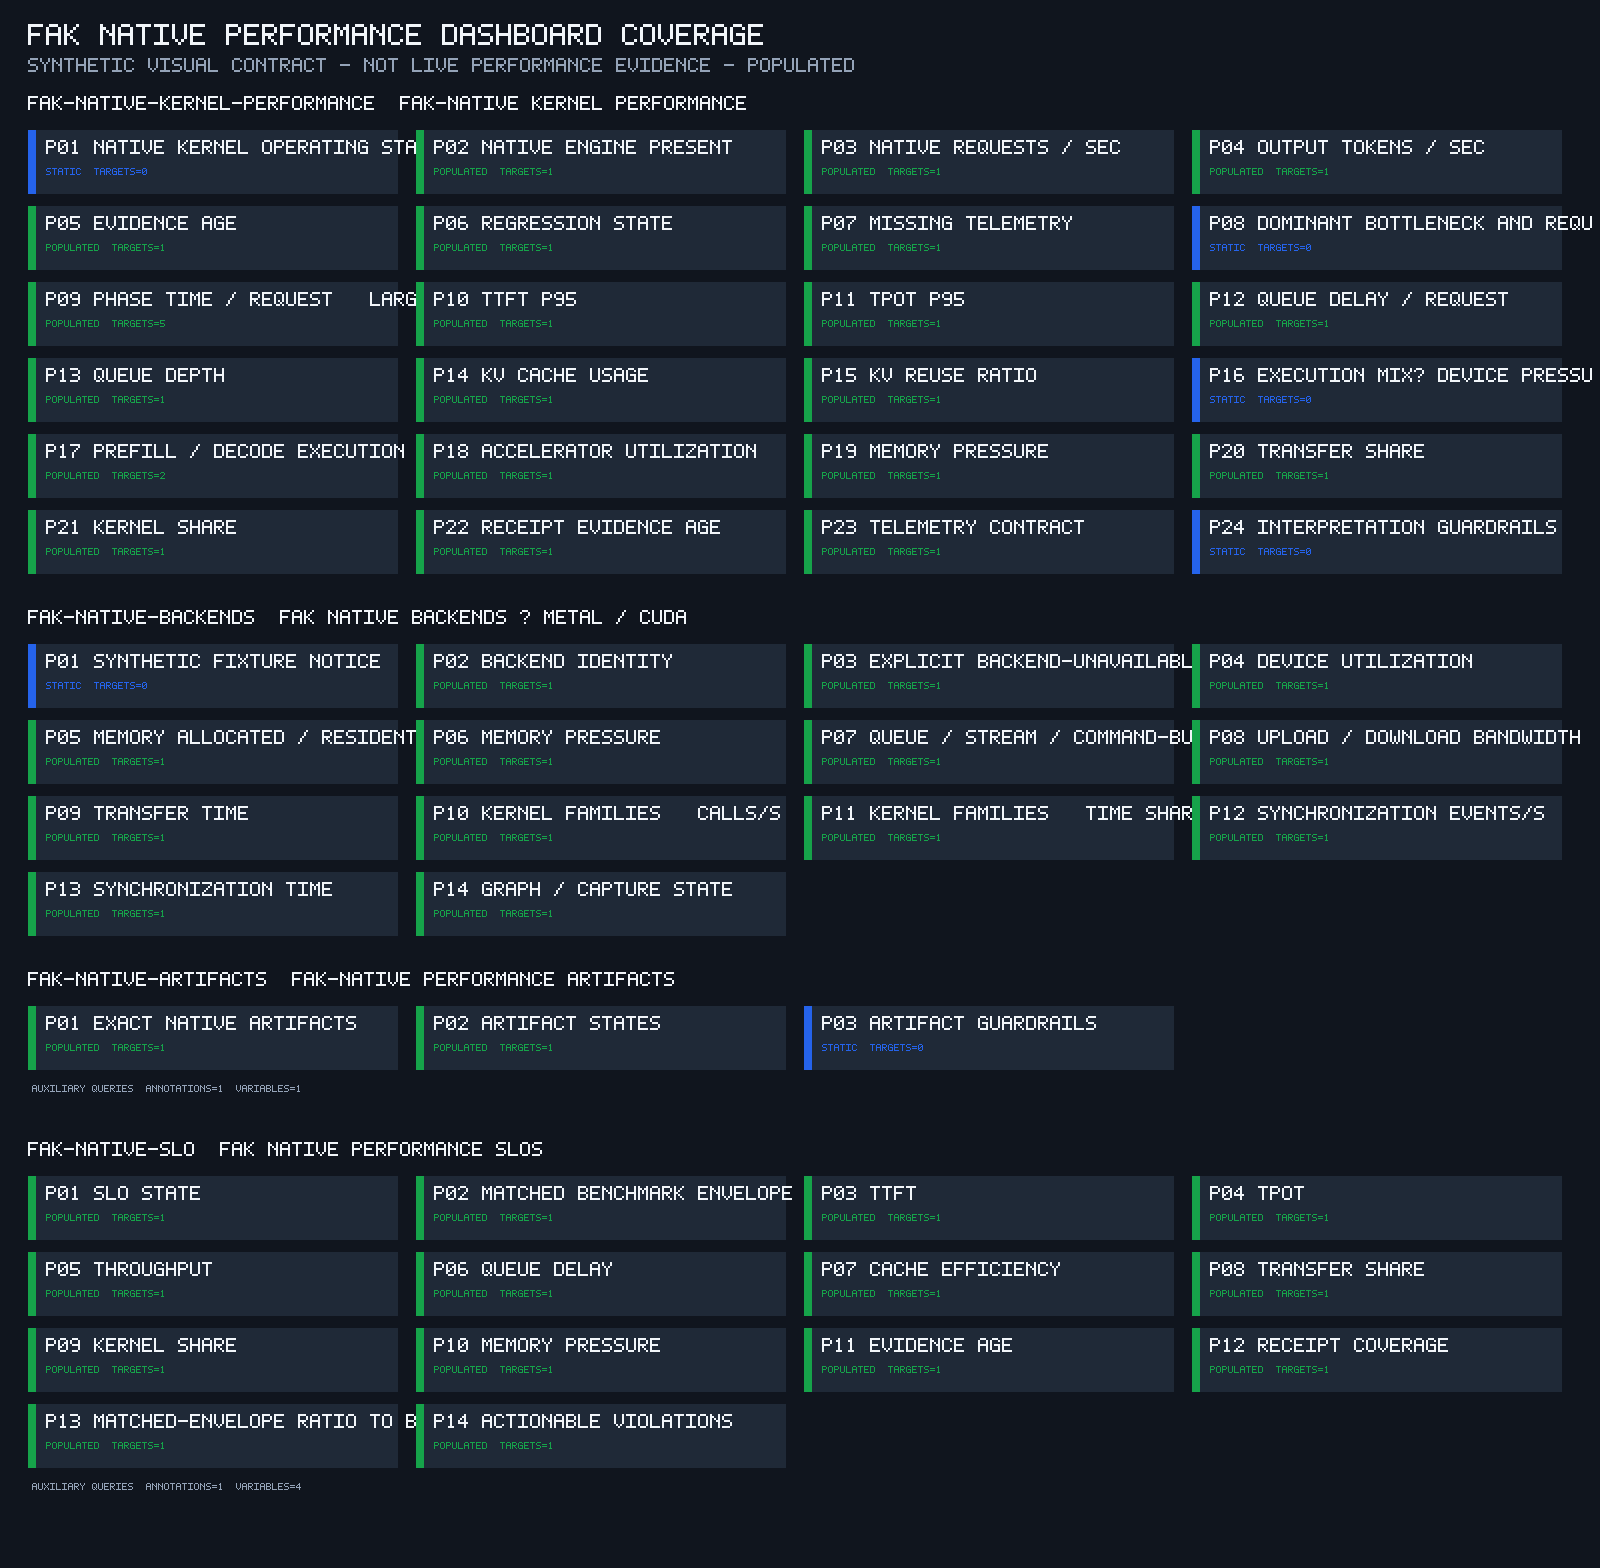
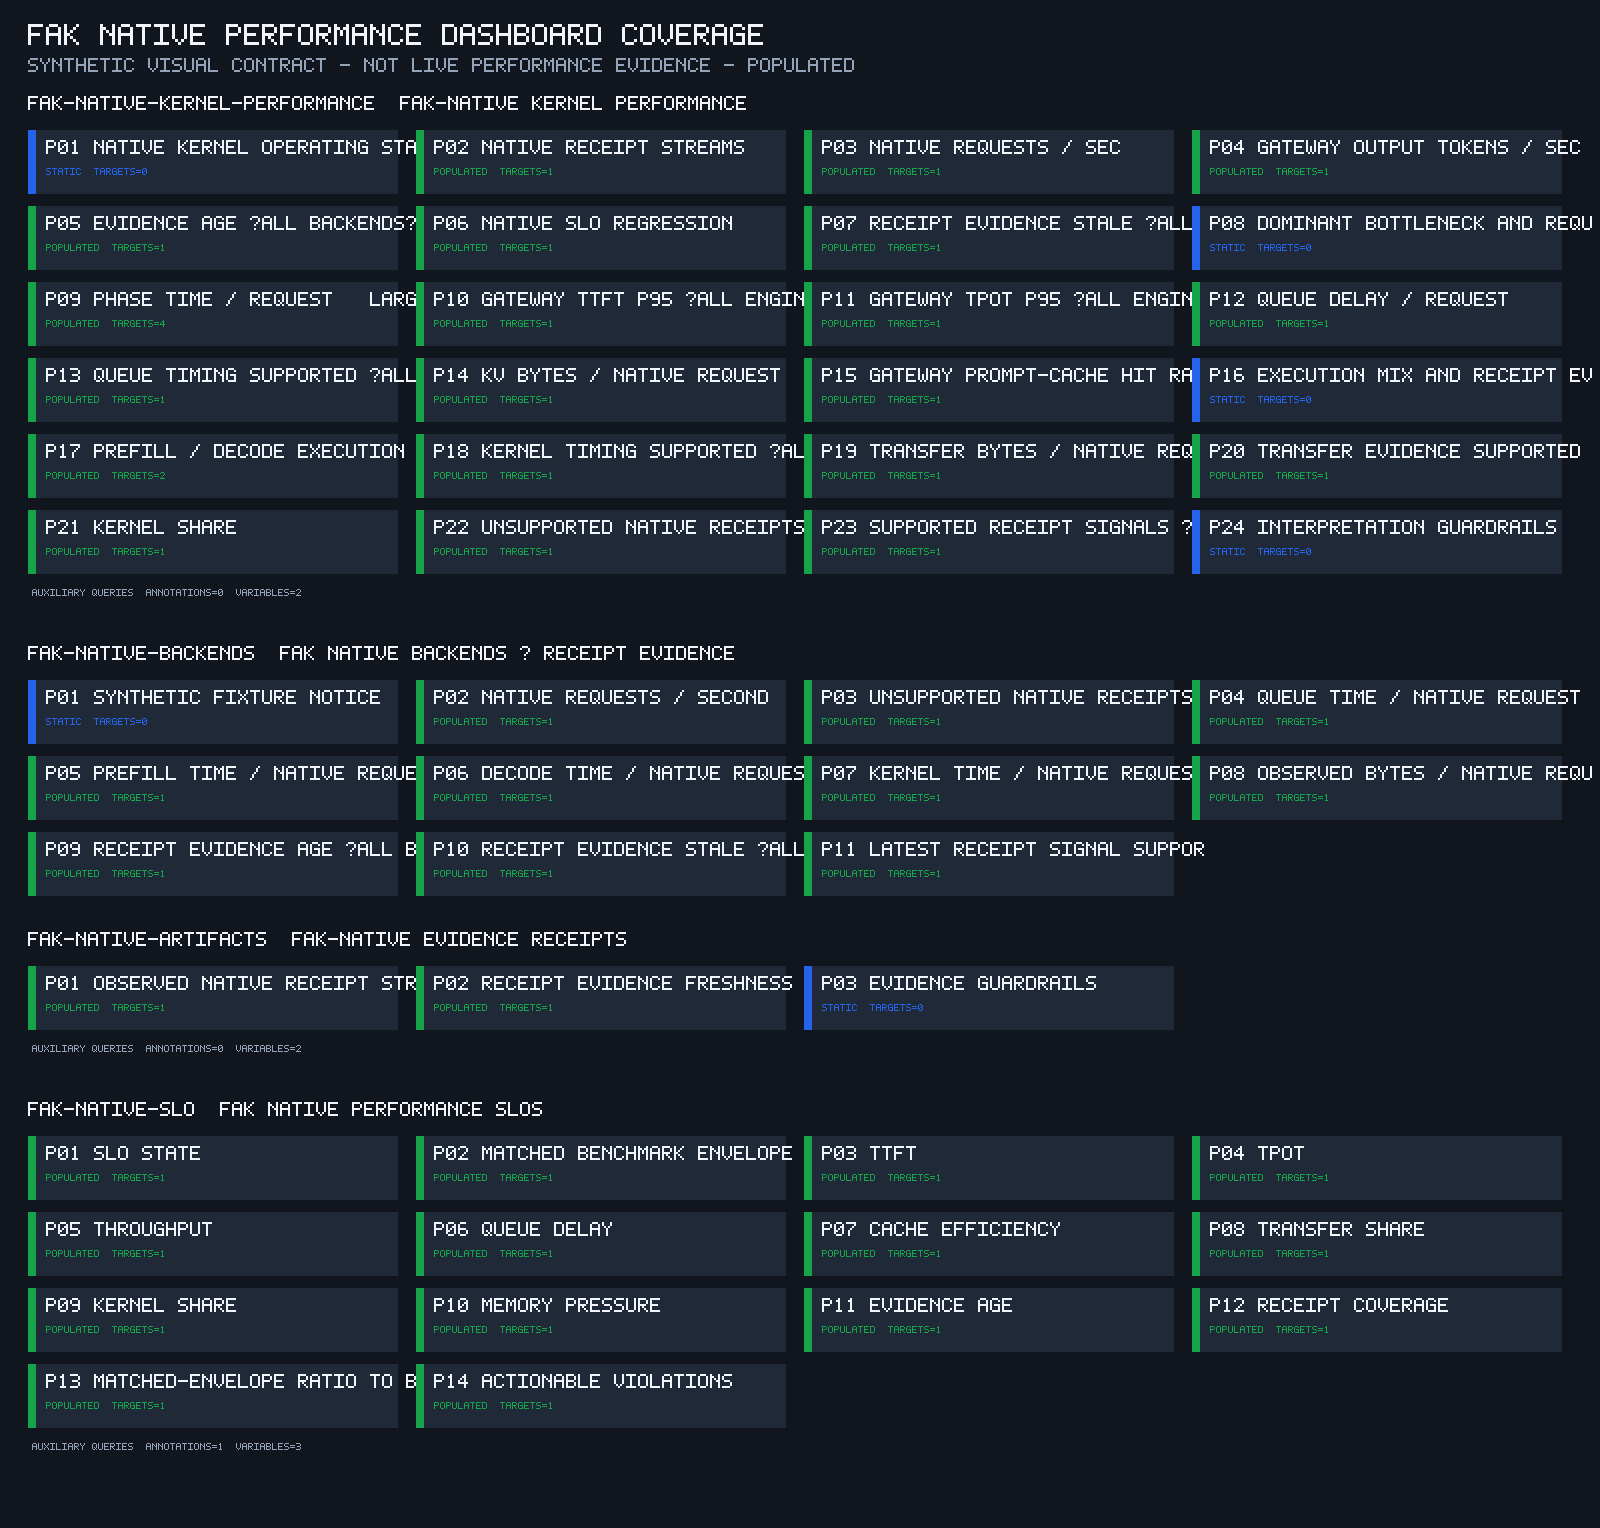
fix(tools): reconcile native coverage proof #9895 (fak tools)

Changed region(s): [[0.0, 0.0308, 1.0, 0.9535]]

diff --git a/internal/nativeperfcoverage/authority.go b/internal/nativeperfcoverage/authority.go
@@ -6,103 +6,112 @@ import (
 	"strings"
 	"time"
 
-	"github.com/anthony-chaudhary/fak/internal/nativeperfbackend"
 	"github.com/anthony-chaudhary/fak/internal/nativeperfslo"
 )
 
 const (
-	authorityFixture  = "controlled-fixture"
-	authorityBackend  = "internal/nativeperfbackend"
-	authorityArtifact = "internal/nativeperfartifact"
-	authoritySLO      = "internal/nativeperfslo"
+	authorityFixture = "controlled-fixture"
+	authorityGateway = "internal/gateway"
+	authorityNative  = "internal/nativeperf"
+	authoritySLO     = "internal/nativeperfslo"
 )
 
-// validateAuthoritativeMetrics binds dashboard contracts to exported producer
-// inventories where those producers exist. Kernel overview metrics remain
-// explicitly fixture-backed because its contract still separates existing and
-// proposed families rather than exposing one Go inventory.
+// currentDashboardMetrics is the bounded producer-backed metric inventory used
+// by the rewritten dashboards. The provisioned contracts still authorize the
+// controlled legacy fixtures, so validation extends rather than replaces that
+// fixture allowlist.
+var currentDashboardMetrics = map[string][]string{
+	"fak-native-kernel-performance": {
+		"fak_gateway_inference_cached_prompt_hit_ratio",
+		"fak_gateway_inference_output_tokens_per_second",
+		"fak_gateway_inference_tpot_seconds_bucket",
+		"fak_gateway_inference_ttft_seconds_bucket",
+		"fak_native_receipt_bytes_total",
+		"fak_native_receipt_latest_age_seconds",
+		"fak_native_receipt_latest_stale",
+		"fak_native_receipt_phase_seconds_total",
+		"fak_native_receipt_requests_total",
+		"fak_native_receipt_signal_supported",
+		"fak_native_receipt_unsupported_total",
+		"fak_native_slo_state",
+	},
+	"fak-native-backends": {
+		"fak_native_receipt_bytes_total",
+		"fak_native_receipt_latest_age_seconds",
+		"fak_native_receipt_latest_stale",
+		"fak_native_receipt_phase_seconds_total",
+		"fak_native_receipt_requests_total",
+		"fak_native_receipt_signal_supported",
+		"fak_native_receipt_unsupported_total",
+	},
+	"fak-native-artifacts": {
+		"fak_native_receipt_latest_stale",
+		"fak_native_receipt_requests_total",
+	},
+}
+
+func extendCurrentDashboardMetrics(uid string, allowed map[string]bool) {
+	for _, metric := range currentDashboardMetrics[uid] {
+		allowed[metric] = true
+	}
+}
+
+// validateAuthoritativeMetrics binds current dashboard queries to bounded
+// producer inventories while retaining the controlled fixture metrics declared
+// by the provisioned contracts.
 func validateAuthoritativeMetrics(uid string, allowed map[string]bool) error {
-	switch uid {
-	case "fak-native-backends":
-		producer := make(map[string]bool)
-		for _, metric := range nativeperfbackend.Metrics() {
-			producer[metric.Name] = true
+	for _, metric := range currentDashboardMetrics[uid] {
+		if !allowed[metric] {
+			return fmt.Errorf("current producer metric %q is absent from the dashboard authority", metric)
 		}
-		if err := requireSameMetricSet(allowed, producer); err != nil {
-			return fmt.Errorf("backend producer contract drift: %w", err)
+	}
+	if uid != "fak-native-slo" {
+		return nil
+	}
+	result := nativeperfslo.Result{
+		At:       time.Unix(1, 0).UTC(),
+		Envelope: nativeperfslo.Envelope{ModuleRev: "internal/nativeperf@r1+g000000000", Benchmark: "qwen38-fixture", Model: "Qwen3.8-4B", Backend: "cuda"},
+		State:    nativeperfslo.StateGood,
+		Values: map[nativeperfslo.Objective]nativeperfslo.Value{
+			nativeperfslo.TTFT: {Available: true, Value: 1},
+		},
+		Ratios: map[nativeperfslo.Objective]nativeperfslo.Value{
+			nativeperfslo.TTFT: {Available: true, Value: 1},
+		},
+		Violations: map[nativeperfslo.Objective]bool{},
+	}
+	series, err := ParseFixture([]byte(nativeperfslo.RenderPrometheus(result)))
+	if err != nil {
+		return fmt.Errorf("parse authoritative SLO producer output: %w", err)
+	}
+	produced := make(map[string]bool)
+	for _, sample := range series {
+		produced[sample.Metric] = true
+	}
+	for _, required := range []string{"fak_native_slo_state", "fak_native_slo_value", "fak_native_slo_ratio", "fak_native_slo_violation"} {
+		if !allowed[required] || !produced[required] {
+			return fmt.Errorf("SLO producer metric %q is absent from contract or authoritative output", required)
 		}
-	case "fak-native-slo":
-		result := nativeperfslo.Result{
-			At:       time.Unix(1, 0).UTC(),
-			Envelope: nativeperfslo.Envelope{ModuleRev: "internal/nativeperf@r1+g000000000", Benchmark: "qwen38-fixture", Model: "Qwen3.8-4B", Backend: "cuda"},
-			State:    nativeperfslo.StateGood,
-			Values: map[nativeperfslo.Objective]nativeperfslo.Value{
-				nativeperfslo.TTFT: {Available: true, Value: 1},
-			},
-			Ratios: map[nativeperfslo.Objective]nativeperfslo.Value{
-				nativeperfslo.TTFT: {Available: true, Value: 1},
-			},
-			Violations: map[nativeperfslo.Objective]bool{},
-		}
-		series, err := ParseFixture([]byte(nativeperfslo.RenderPrometheus(result)))
-		if err != nil {
-			return fmt.Errorf("parse authoritative SLO producer output: %w", err)
-		}
-		produced := make(map[string]bool)
-		for _, sample := range series {
-			produced[sample.Metric] = true
-		}
-		for _, required := range []string{"fak_native_slo_state", "fak_native_slo_value", "fak_native_slo_ratio", "fak_native_slo_violation"} {
-			if !allowed[required] || !produced[required] {
-				return fmt.Errorf("SLO producer metric %q is absent from contract or authoritative output", required)
-			}
-		}
-		// Lifecycle annotations are a distinct controlled fixture until their
-		// bounded producer is wired; do not relabel them as renderer output.
-		if !allowed["fak_native_lifecycle_event_info"] {
-			return fmt.Errorf("SLO lifecycle annotation metric is absent from contract")
-		}
-	case "fak-native-artifacts":
-		if len(allowed) != 1 || !allowed["fak_native_artifact_info"] {
-			return fmt.Errorf("artifact index contract must contain only fak_native_artifact_info")
-		}
+	}
+	// Lifecycle annotations are a distinct controlled fixture until their
+	// bounded producer is wired; do not relabel them as renderer output.
+	if !allowed["fak_native_lifecycle_event_info"] {
+		return fmt.Errorf("SLO lifecycle annotation metric is absent from contract")
 	}
 	return nil
 }
 
-func requireSameMetricSet(contract, producer map[string]bool) error {
-	var missing, extra []string
-	for metric := range producer {
-		if !contract[metric] {
-			missing = append(missing, metric)
-		}
-	}
-	for metric := range contract {
-		if !producer[metric] {
-			extra = append(extra, metric)
-		}
-	}
-	sort.Strings(missing)
-	sort.Strings(extra)
-	if len(missing) != 0 || len(extra) != 0 {
-		return fmt.Errorf("missing=%v extra=%v", missing, extra)
-	}
-	return nil
-}
-
-func queryAuthority(uid string, metrics []string) string {
+func queryAuthority(_ string, metrics []string) string {
 	authorities := make(map[string]bool)
 	for _, metric := range metrics {
 		authority := authorityFixture
-		switch uid {
-		case "fak-native-backends":
-			authority = authorityBackend
-		case "fak-native-artifacts":
-			authority = authorityArtifact
-		case "fak-native-slo":
-			if metric != "fak_native_lifecycle_event_info" {
-				authority = authoritySLO
-			}
+		switch {
+		case strings.HasPrefix(metric, "fak_native_receipt_"):
+			authority = authorityNative
+		case strings.HasPrefix(metric, "fak_gateway_inference_"):
+			authority = authorityGateway
+		case strings.HasPrefix(metric, "fak_native_slo_"):
+			authority = authoritySLO
 		}
 		authorities[authority] = true
 	}

diff --git a/internal/nativeperfcoverage/coverage.go b/internal/nativeperfcoverage/coverage.go
@@ -279,6 +279,7 @@ func loadSpec(root string, spec Spec) (loadedSpec, error) {
 	if err != nil {
 		return result, fmt.Errorf("parse contract metrics %s: %w", spec.Contract, err)
 	}
+	extendCurrentDashboardMetrics(spec.UID, result.allowed)
 	return result, nil
 }
 
@@ -338,12 +339,22 @@ var metricSelectorRE = regexp.MustCompile(`\b([a-zA-Z_:][a-zA-Z0-9_:]*)\s*\{`)
 // MetricNames extracts selector metric names without confusing labels,
 // functions, durations, or Grafana variables for metric families.
 func MetricNames(expr string) []string {
+	return metricNames(expr, nil)
+}
+
+func metricNames(expr string, allowed map[string]bool) []string {
 	seen := make(map[string]bool)
 	var names []string
 	for _, match := range metricSelectorRE.FindAllStringSubmatch(expr, -1) {
 		if !seen[match[1]] {
 			seen[match[1]] = true
 			names = append(names, match[1])
+		}
+	}
+	for metric := range allowed {
+		if !seen[metric] && regexp.MustCompile(`\b`+regexp.QuoteMeta(metric)+`\b`).MatchString(expr) {
+			seen[metric] = true
+			names = append(names, metric)
 		}
 	}
 	sort.Strings(names)
@@ -404,6 +415,9 @@ func validateSpec(ctx context.Context, cfg Config, loaded loadedSpec) (Dashboard
 	for _, series := range loaded.fixture {
 		fixtureMetrics[series.Metric] = true
 	}
+	for _, metric := range currentDashboardMetrics[loaded.spec.UID] {
+		fixtureMetrics[metric] = true
+	}
 	result := DashboardCoverage{UID: d.UID, Title: d.Title}
 	for _, panel := range d.Panels {
 		pc := PanelCoverage{ID: panel.ID, Title: panel.Title, Type: panel.Type, State: "static"}
@@ -453,21 +467,21 @@ func validateSpec(ctx context.Context, cfg Config, loaded loadedSpec) (Dashboard
 
 func validateDatasources(d dashboardJSON) error {
 	validUID := func(uid string) bool {
-		return uid == "" || uid == "fleet-prometheus" || uid == "${datasource}" || uid == "-- Grafana --"
+		return uid == "" || uid == "fleet-prometheus" || uid == "prometheus" || uid == "${datasource}" || uid == "-- Grafana --"
 	}
 	for _, panel := range d.Panels {
 		if !validUID(panel.Datasource.UID) {
-			return fmt.Errorf("panel %d datasource uid %q does not match provisioned fleet-prometheus", panel.ID, panel.Datasource.UID)
+			return fmt.Errorf("panel %d datasource uid %q is not a recognized Prometheus datasource", panel.ID, panel.Datasource.UID)
 		}
 		for _, target := range panel.Targets {
 			if !validUID(target.Datasource.UID) {
-				return fmt.Errorf("panel %d target %s datasource uid %q does not match provisioned fleet-prometheus", panel.ID, target.RefID, target.Datasource.UID)
+				return fmt.Errorf("panel %d target %s datasource uid %q is not a recognized Prometheus datasource", panel.ID, target.RefID, target.Datasource.UID)
 			}
 		}
 	}
 	for _, annotation := range d.Annotations.List {
 		if !validUID(annotation.Datasource.UID) {
-			return fmt.Errorf("annotation %q datasource uid %q does not match provisioned fleet-prometheus", annotation.Name, annotation.Datasource.UID)
+			return fmt.Errorf("annotation %q datasource uid %q is not a recognized Prometheus datasource", annotation.Name, annotation.Datasource.UID)
 		}
 	}
 	for _, variable := range d.Templating.List {
@@ -478,15 +492,15 @@ func validateDatasources(d dashboardJSON) error {
 		if err := json.Unmarshal(variable.Current.Value, &value); err != nil {
 			return fmt.Errorf("datasource variable %q current value: %w", variable.Name, err)
 		}
-		if value != "fleet-prometheus" {
-			return fmt.Errorf("datasource variable %q current uid %q does not match provisioned fleet-prometheus", variable.Name, value)
+		if value != "fleet-prometheus" && value != "prometheus" {
+			return fmt.Errorf("datasource variable %q current uid %q is not a recognized Prometheus datasource", variable.Name, value)
 		}
 	}
 	return nil
 }
 
 func validateQuery(ctx context.Context, checker QueryChecker, uid string, allowed, fixture map[string]bool, panel panelJSON, kind QueryKind, name, expr string) (QueryCoverage, error) {
-	metrics := MetricNames(expr)
+	metrics := metricNames(expr, allowed)
 	if len(metrics) == 0 {
 		return QueryCoverage{}, errors.New("query contains no metric selector")
 	}
@@ -566,6 +580,7 @@ func NormalizePromQL(expr string) (string, error) {
 		{"$engine", "fak-native"},
 		{"$model", "Qwen3.8-4B"},
 		{"$backend", "cuda"},
+		{"$forward_path", "qwen_cuda"},
 		{"$scenario", "good"},
 		{"$benchmark_envelope", "qwen38-4b-in128-out128-b1-quality-v3"},
 		{"$correlation_key", "npc1_0123456789abcdef0123456789abcdef"},

diff --git a/internal/nativeperfcoverage/promtool.go b/internal/nativeperfcoverage/promtool.go
@@ -202,6 +202,9 @@ func EvaluateMatrixControlledPromQL(ctx context.Context, root, promtoolPath stri
 	// while measurement panels continue to gate on reason=none.
 	tests.WriteString("  - series: 'fak_native_backend_available{backend=\"cuda\",reason=\"driver_unavailable\"}'\n")
 	tests.WriteString("    values: '0x19 1'\n")
+	for _, sample := range currentProducerSamples() {
+		fmt.Fprintf(&tests, "  - series: %s\n    values: %q\n", promtoolSeries(sample), promtoolValues(sample))
+	}
 	tests.WriteString("  promql_expr_test:\n")
 	for _, query := range queries {
 		fmt.Fprintf(&tests, "  - expr: count(%s) > bool 0\n    eval_time: 10m\n    exp_samples:\n    - labels: '{}'\n      value: 1\n", query.record)
@@ -222,6 +225,35 @@ func EvaluateMatrixControlledPromQL(ctx context.Context, root, promtoolPath stri
 	return nil
 }
 
+func currentProducerSamples() []Series {
+	labels := map[string]string{"engine": "inkernel", "backend": "cuda", "forward_path": "qwen_cuda"}
+	samples := []Series{
+		{Metric: "fak_native_receipt_requests_total", Labels: labels, Value: 400},
+		{Metric: "fak_native_receipt_unsupported_total", Labels: map[string]string{"reason": "none"}, Value: 20},
+		{Metric: "fak_native_receipt_latest_age_seconds", Value: 10},
+		{Metric: "fak_native_receipt_latest_stale", Value: 0},
+
+		{Metric: "fak_gateway_inference_output_tokens_per_second", Labels: map[string]string{"engine": "fak-native", "backend": "cuda"}, Value: 48},
+		{Metric: "fak_gateway_inference_cached_prompt_hit_ratio", Labels: map[string]string{"engine": "fak-native", "backend": "cuda"}, Value: 0.75},
+		{Metric: "fak_native_slo_state", Labels: map[string]string{"engine": "fak-native", "backend": "cuda", "state": "regression"}, Value: 1},
+	}
+	for _, signal := range []string{"ttft", "tpot", "queue", "prefill", "decode", "kernel", "kv_reuse", "transfer"} {
+		samples = append(samples, Series{Metric: "fak_native_receipt_signal_supported", Labels: map[string]string{"signal": signal}, Value: 1})
+	}
+	for _, phase := range []string{"queue", "prefill", "decode", "kernel"} {
+		samples = append(samples, Series{Metric: "fak_native_receipt_phase_seconds_total", Labels: map[string]string{"engine": "inkernel", "backend": "cuda", "forward_path": "qwen_cuda", "phase": phase}, Value: 40})
+	}
+	for _, kind := range []string{"kv", "transfer"} {
+		samples = append(samples, Series{Metric: "fak_native_receipt_bytes_total", Labels: map[string]string{"engine": "inkernel", "backend": "cuda", "forward_path": "qwen_cuda", "kind": kind}, Value: 4096})
+	}
+	for _, metric := range []string{"fak_gateway_inference_ttft_seconds_bucket", "fak_gateway_inference_tpot_seconds_bucket"} {
+		for i, le := range []string{"0.1", "0.5", "1", "+Inf"} {
+			samples = append(samples, Series{Metric: metric, Labels: map[string]string{"engine": "fak-native", "backend": "cuda", "le": le}, Value: float64((i + 1) * 100)})
+		}
+	}
+	return samples
+}
+
 func promtoolSeries(sample Series) string {
 	var labels []string
 	for name, value := range sample.Labels {
@@ -236,7 +268,7 @@ func promtoolSeries(sample Series) string {
 
 func promtoolValues(sample Series) string {
 	// changes() must observe a transition inside its final one-minute range.
-	if sample.Metric == "fak_native_artifact_info" || sample.Metric == "fak_native_lifecycle_event_info" {
+	if sample.Metric == "fak_native_artifact_info" || sample.Metric == "fak_native_lifecycle_event_info" || (sample.Metric == "fak_native_slo_state" && sample.Labels["state"] == "regression") {
 		return "0x19 1"
 	}
 	if strings.HasSuffix(sample.Metric, "_total") || strings.HasSuffix(sample.Metric, "_bucket") {

diff --git a/internal/nativeperfcoverage/coverage_test.go b/internal/nativeperfcoverage/coverage_test.go
@@ -51,8 +51,8 @@ func TestFullMatrix(t *testing.T) {
 			}
 		}
 	}
-	if targets != 54 || annotations != 2 || variables != 5 {
-		t.Fatalf("inventory targets=%d annotations=%d variables=%d, want 54/2/5", targets, annotations, variables)
+	if targets != 50 || annotations != 1 || variables != 7 {
+		t.Fatalf("inventory targets=%d annotations=%d variables=%d, want 50/1/7", targets, annotations, variables)
 	}
 	if checker.calls != targets+annotations+variables {
 		t.Fatalf("checked queries=%d, want %d", checker.calls, targets+annotations+variables)
@@ -109,7 +109,7 @@ func TestPromtoolEvaluatesEveryExtractedQueryAgainstControlledData(t *testing.T)
 func TestMutationRenamedMetric(t *testing.T) {
 	root := fixtureRepo(t)
 	path := filepath.Join(root, Specs()[0].Dashboard)
-	replaceFile(t, path, "fak_engine_model_info{", "fak_engine_model_renamed{")
+	replaceFile(t, path, "fak_native_receipt_requests_total{", "fak_native_receipt_requests_renamed{")
 	_, err := Validate(context.Background(), Config{Root: root, Checker: &acceptingChecker{}})
 	assertErrorContains(t, err, "unknown or renamed metric")
 }
@@ -125,7 +125,7 @@ func TestMutationMissingSupervisedJob(t *testing.T) {
 func TestMutationQueryFailure(t *testing.T) {
 	root := fixtureRepo(t)
 	path := filepath.Join(root, Specs()[0].Dashboard)
-	replaceFile(t, path, "sum(fak_engine_model_info{", "unsupported(sum(fak_engine_model_info{")
+	replaceFile(t, path, "sum(rate(fak_native_receipt_requests_total{", "unsupported(sum(rate(fak_native_receipt_requests_total{")
 	checker := QueryCheckerFunc(func(_ context.Context, expr string) error {
 		if strings.Contains(expr, "unsupported(") {
 			return errors.New("unsupported expression")
